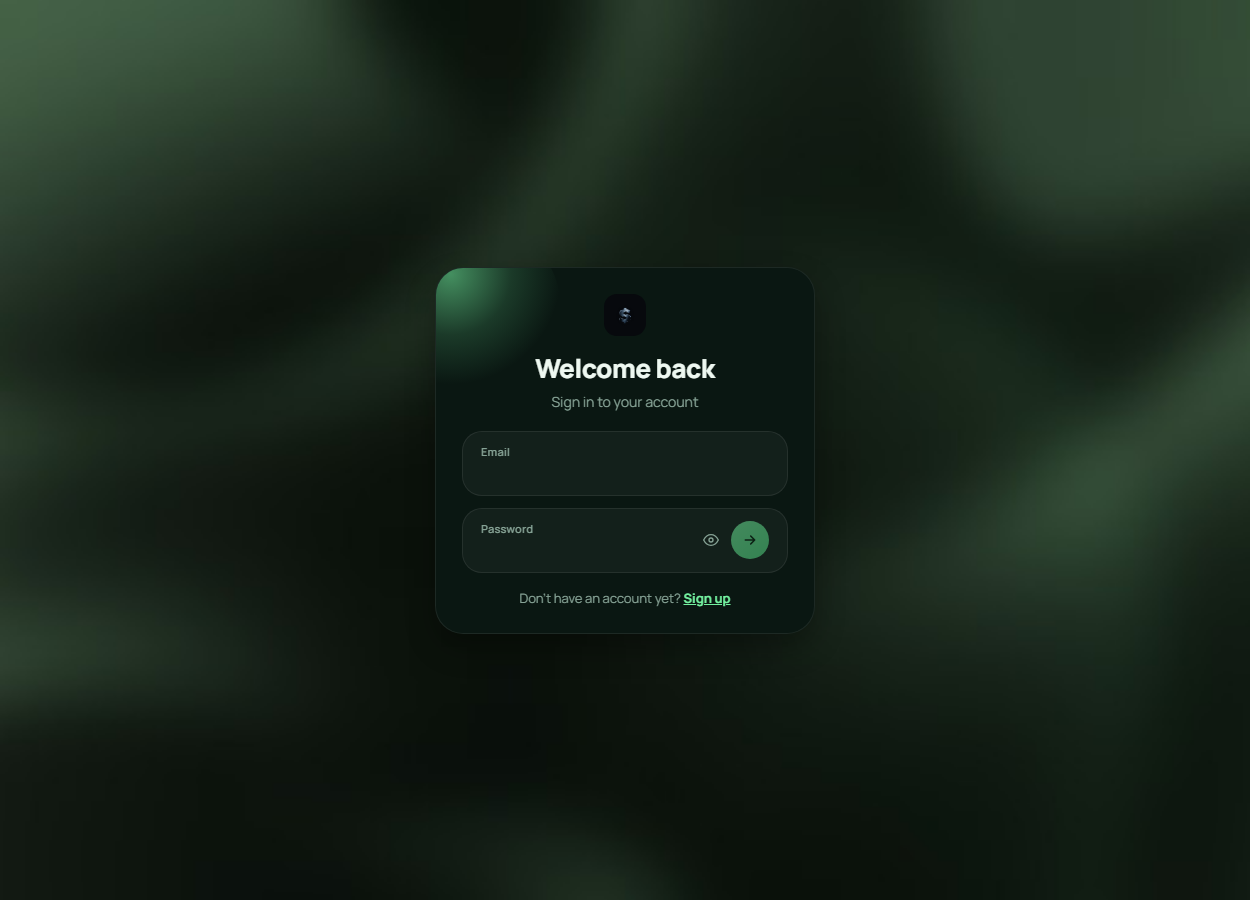
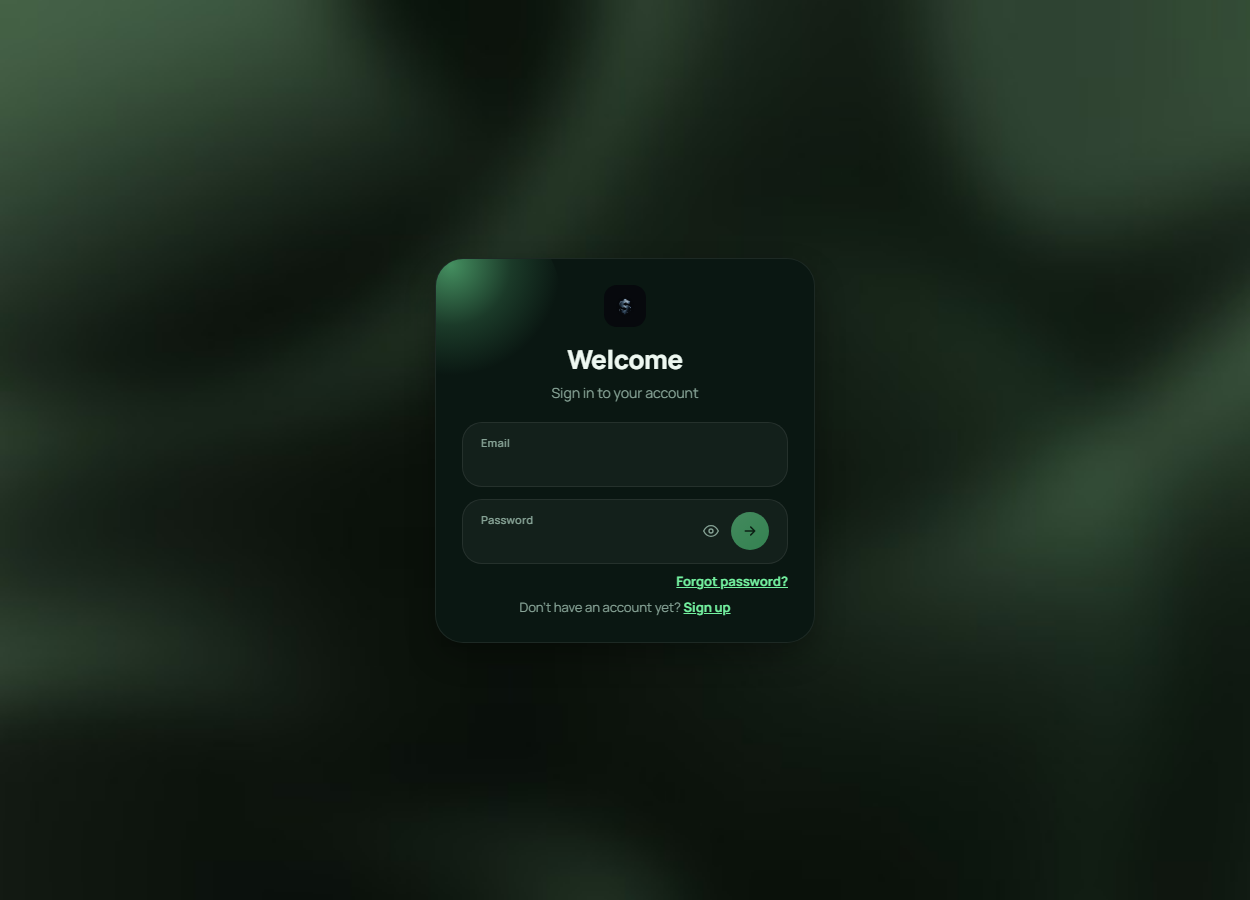
Update Expense Tracker card: TypeScript, forgot-password, delete fix
Screenshot refreshed to show the new "Welcome" copy and the
forgot-password link. Description/features/stack now mention
TypeScript (the whole mobile app is TS, previously unlisted) and the
new SendGrid-backed password-reset flow, and the swipe-to-delete
bullet no longer overclaims it as the only delete mechanism now that
web has its own dedicated delete action.

diff --git a/index.html b/index.html
@@ -316,7 +316,7 @@
         <div class="project-header">
           <div>
             <h3>Expense Tracker</h3>
-            <p class="project-tagline">Flask REST API + React Native app, deployed to Android and the web</p>
+            <p class="project-tagline">Flask REST API + React Native (TypeScript) app, deployed to Android and the web</p>
           </div>
           <div class="project-links">
             <a href="https://expense-tracker-web-rosy.vercel.app" target="_blank" rel="noopener" class="btn btn-small btn-primary">Live Demo ↗</a>
@@ -326,11 +326,11 @@
 
         <p class="project-desc">
           A personal expense tracker rebuilt as a Flask JSON API (SQLAlchemy + JWT auth)
-          behind a React Native / Expo app, deployed for real: the API runs on Render
-          against an Azure SQL database, the web build is deployed on Vercel, and the
-          app itself also ships as an installable Android APK via EAS Build — not just
-          a localhost demo. Light/dark theming, animated charts, swipe-to-delete, CSV
-          export, and quick-add templates round out the UX.
+          behind a React Native / Expo (TypeScript) app, deployed for real: the API runs
+          on Render against an Azure SQL database, the web build is deployed on Vercel, and
+          the app itself also ships as an installable Android APK via EAS Build — not just
+          a localhost demo. Light/dark theming, animated charts, a SendGrid-backed
+          forgot-password flow, CSV export, and quick-add templates round out the UX.
         </p>
 
         <div class="project-gallery">
@@ -364,7 +364,8 @@
           <li>JWT-authenticated Flask REST API (SQLAlchemy + Flask-Migrate) against Azure SQL, deployed on Render with a Dockerized ODBC driver</li>
           <li>React Native / Expo mobile app — bottom-tab navigation, animated dashboard charts, category filtering, budget tracking</li>
           <li>Per-user currency preference (12 ISO 4217 codes) persisted server-side, driving every amount shown across the app</li>
-          <li>Light/dark theme with persisted preference, swipe-to-delete, CSV export, pull-to-refresh, and haptic feedback</li>
+          <li>Light/dark theme with persisted preference, swipe-to-delete on native (a dedicated delete action on web), CSV export, pull-to-refresh, and haptic feedback</li>
+          <li>Forgot/reset password flow — a SendGrid-emailed one-time code, hashed and single-use server-side, no account enumeration</li>
           <li>Real Android APK built and distributed via EAS Build, not just an Expo Go preview</li>
           <li>Web build (Expo for Web) deployed on Vercel, hitting the same Flask API through a locked-down CORS allowlist</li>
           <li>CORS allowlist and per-endpoint rate limiting on auth routes; pytest suite covering auth, ownership isolation, and CRUD</li>
@@ -376,6 +377,7 @@
           <span class="tag">JWT</span>
           <span class="tag">React Native</span>
           <span class="tag">Expo</span>
+          <span class="tag">TypeScript</span>
           <span class="tag">Azure SQL</span>
           <span class="tag">Render</span>
           <span class="tag">Vercel</span>
